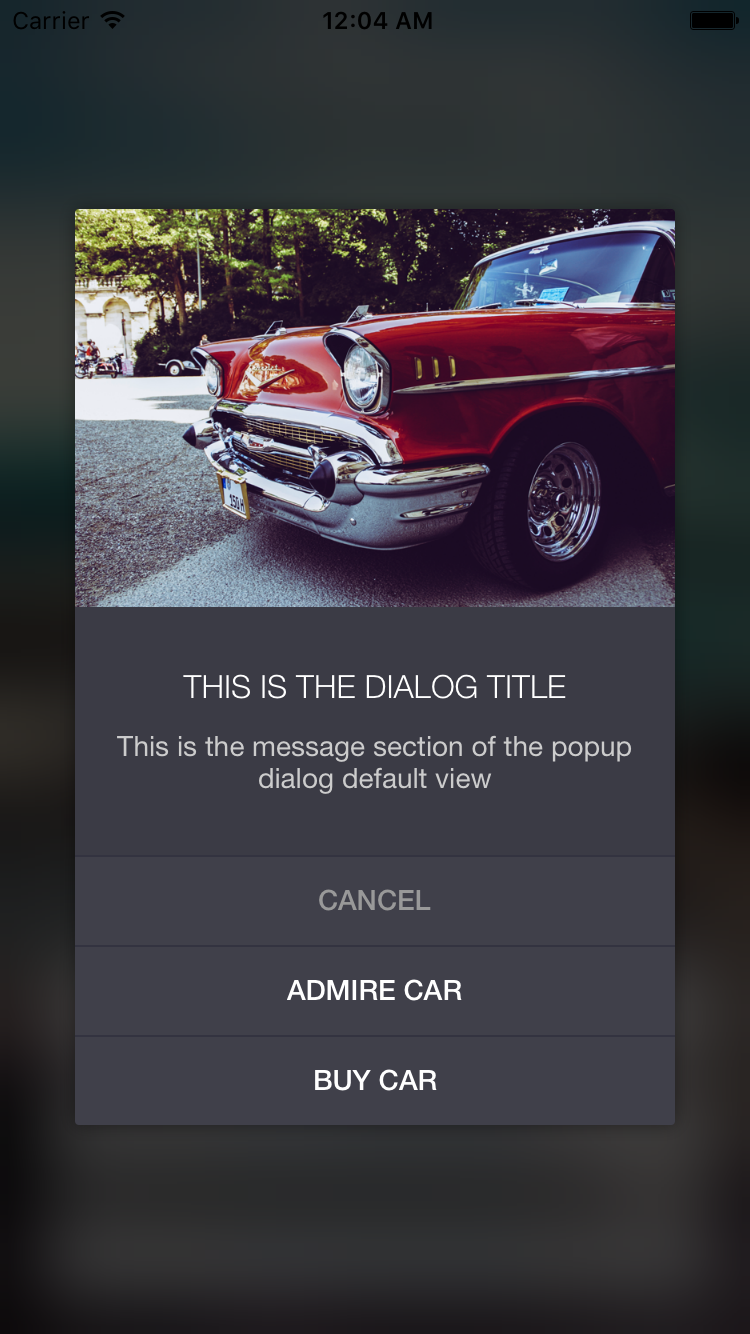
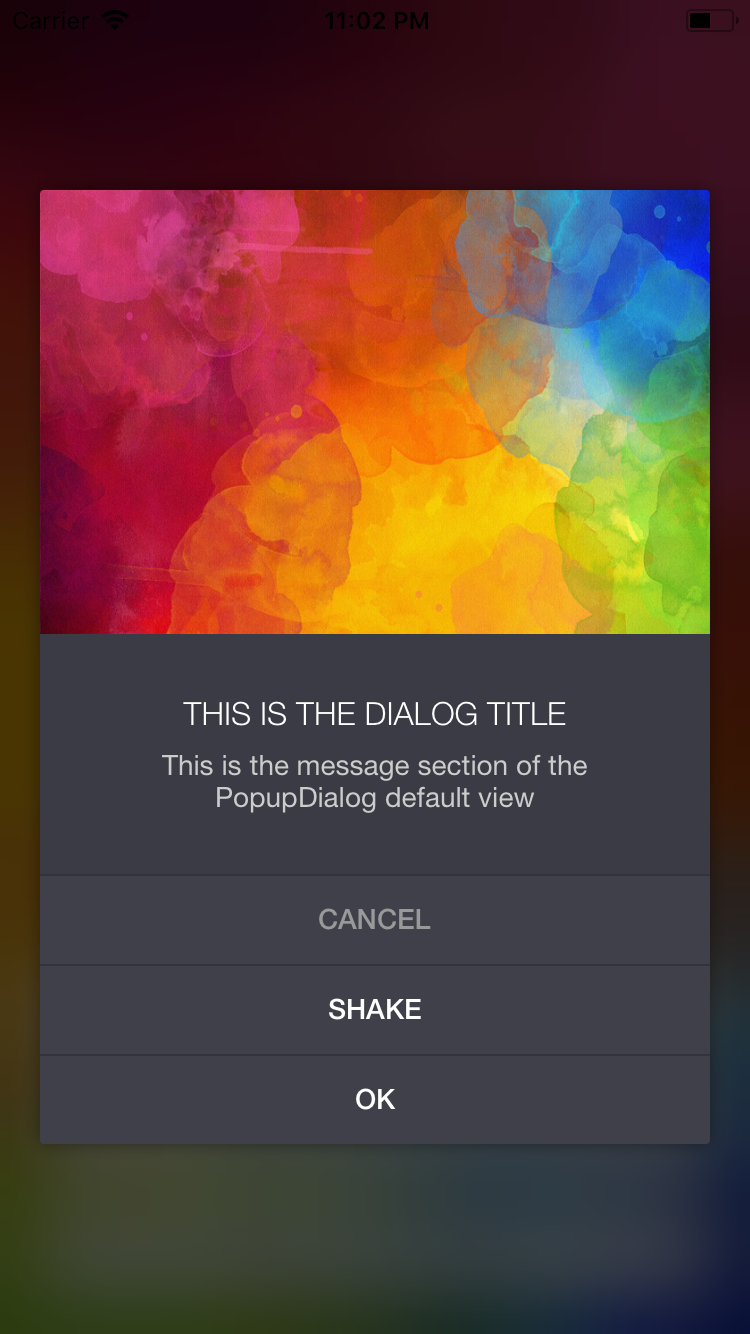
Added new imagery

diff --git a/Example/PopupDialog/ViewController.swift b/Example/PopupDialog/ViewController.swift
@@ -55,41 +55,36 @@ class ViewController: UIViewController {
 
         // Prepare the popup assets
         let title = "THIS IS THE DIALOG TITLE"
-        let message = "This is the message section of the popup dialog default view"
-        let image = UIImage(named: "pexels-photo-103290")
+        let message = "This is the message section of the PopupDialog default view"
+        let image = UIImage(named: "colorful")
 
         // Create the dialog
         let popup = PopupDialog(title: title, message: message, image: image, preferredWidth: 580)
 
         // Create first button
-        let buttonOne = CancelButton(title: "CANCEL") {
-            self.label.text = "You canceled the car dialog."
-        }
-
-        // Create second button
-        let buttonTwo = DefaultButton(title: "ADMIRE CAR") {
-            self.label.text = "What a beauty!"
-        }
-
-        // Create third button
-        let buttonThree = DefaultButton(title: "BUY CAR") {
-            self.label.text = "Ah, maybe next time :)"
+        let buttonOne = CancelButton(title: "CANCEL") { [weak self] in
+            self?.label.text = "You canceled the image dialog"
         }
         
         // Create fourth (shake) button
-        let buttonFour = DefaultButton(title: "SHAKE", dismissOnTap: false) {
+        let buttonTwo = DefaultButton(title: "SHAKE", dismissOnTap: false) {
             popup.shake()
         }
 
+        // Create second button
+        let buttonThree = DefaultButton(title: "OK") { [weak self] in
+            self?.label.text = "You ok'd the image dialog"
+        }
+
         // Add buttons to dialog
-        popup.addButtons([buttonOne, buttonTwo, buttonThree, buttonFour])
+        popup.addButtons([buttonOne, buttonTwo, buttonThree])
 
         // Present dialog
         self.present(popup, animated: animated, completion: nil)
     }
 
     /*!
-     Displays the standard dialog without image, just as the system dialog
+     Displays the default dialog without image, just as the system dialog
      */
     func showStandardDialog(animated: Bool = true) {
 
@@ -98,7 +93,12 @@ class ViewController: UIViewController {
         let message = "If you don't pass an image to the default dialog, it will display just as a regular dialog. Moreover, this features the zoom transition"
 
         // Create the dialog
-        let popup = PopupDialog(title: title, message: message, buttonAlignment: .horizontal, transitionStyle: .zoomIn, gestureDismissal: true, hideStatusBar: true) {
+        let popup = PopupDialog(title: title,
+                                message: message,
+                                buttonAlignment: .horizontal,
+                                transitionStyle: .zoomIn,
+                                gestureDismissal: true,
+                                hideStatusBar: true) {
             print("Completed")
         }
 

diff --git a/Tests/Tests.swift b/Tests/Tests.swift
@@ -21,8 +21,6 @@ class Tests: XCTestCase {
         let popup = PopupDialog(title: "Test Title", message: "Test Message")
         expect(popup).toNot(beNil())
         
-        //XCTAssertNotNil(popup, "Popup Dialog should be non-nil")
-
         // Get popup dialog view
         guard let vc = popup.viewController as? PopupDialogDefaultViewController else {
             XCTFail("Could not instantiate Popup Dialog view")
@@ -38,7 +36,7 @@ class Tests: XCTestCase {
     func testImageDialogInstantiation() {
 
         // Create image
-        let image = UIImage(named: "pexels-photo-103290", in: Bundle.main, compatibleWith: nil)
+        let image = UIImage(named: "colorful", in: Bundle.main, compatibleWith: nil)
         expect(image).toNot(beNil())
 
         // Instantiate dialog with image
@@ -64,7 +62,7 @@ class Tests: XCTestCase {
         popup.beginAppearanceTransition(true, animated: false)
 
         // Create image
-        let image = UIImage(named: "pexels-photo-103290", in: Bundle.main, compatibleWith: nil)
+        let image = UIImage(named: "colorful", in: Bundle.main, compatibleWith: nil)
         XCTAssertNotNil(image, "Image should not be nil")
 
         // Change values after init
@@ -93,7 +91,7 @@ class Tests: XCTestCase {
         }
 
         // Create image
-        let image = UIImage(named: "pexels-photo-103290", in: Bundle.main, compatibleWith: nil)
+        let image = UIImage(named: "colorful", in: Bundle.main, compatibleWith: nil)
         expect(image).toNot(beNil())
 
         vc.titleText   = "New Test Title"

diff --git a/Tests/SnapshotTests.swift b/Tests/SnapshotTests.swift
@@ -30,21 +30,21 @@ class SnapshotTests: FBSnapshotTestCase {
 
     func testStandardDialogWithImage() {
         vc.showImageDialog(animated: false)
-        let date = Date(timeIntervalSinceNow: 0.1)
+        let date = Date(timeIntervalSinceNow: 0.5)
         RunLoop.current.run(mode: .defaultRunLoopMode, before: date)
         FBSnapshotVerifyView(window)
     }
     
     func testStandardDialogWithoutImage() {
         vc.showStandardDialog(animated: false)
-        let date = Date(timeIntervalSinceNow: 0.1)
+        let date = Date(timeIntervalSinceNow: 0.5)
         RunLoop.current.run(mode: .defaultRunLoopMode, before: date)
         FBSnapshotVerifyView(window)
     }
     
     func testCustomDialog() {
         vc.showCustomDialog(animated: false)
-        let date = Date(timeIntervalSinceNow: 0.1)
+        let date = Date(timeIntervalSinceNow: 0.5)
         RunLoop.current.run(mode: .defaultRunLoopMode, before: date)
         FBSnapshotVerifyView(window)
     }

diff --git a/UITests/Tests.swift b/UITests/Tests.swift
@@ -26,16 +26,12 @@ class UITests: XCTestCase {
         XCTAssert(app.staticTexts["Tap the buttons!"].exists)
         
         app.buttons["Show Image Dialog"].tap()
-        app.buttons["ADMIRE CAR"].tap()
-        XCTAssert(app.staticTexts["What a beauty!"].exists)
-        
-        app.buttons["Show Image Dialog"].tap()
-        app.buttons["BUY CAR"].tap()
-        XCTAssert(app.staticTexts["Ah, maybe next time :)"].exists)
+        app.buttons["OK"].tap()
+        XCTAssert(app.staticTexts["You ok'd the image dialog"].exists)
         
         app.buttons["Show Image Dialog"].tap()
         app.buttons["CANCEL"].tap()
-        XCTAssert(app.staticTexts["You canceled the car dialog."].exists)
+        XCTAssert(app.staticTexts["You canceled the image dialog"].exists)
     }
     
     func testDefaultDialogWithoutImage() {

diff --git a/README.md b/README.md
@@ -467,14 +467,6 @@ Thanks to everyone who uses, enhances and improves this library, especially the 
 
 <p>&nbsp;</p>
 
-# Images in the sample project
-
-The sample project features two images from Markus Spiske raumrot.com:<br>
-[Vintage Car One](https://www.pexels.com/photo/lights-vintage-luxury-tires-103290/) | [Vintage Car Two](https://www.pexels.com/photo/lights-car-vintage-luxury-92637/)<br>
-Thanks a lot for providing these :)
-
-<p>&nbsp;</p>
-
 # License
 
 PopupDialog is available under the MIT license. See the LICENSE file for more info.
